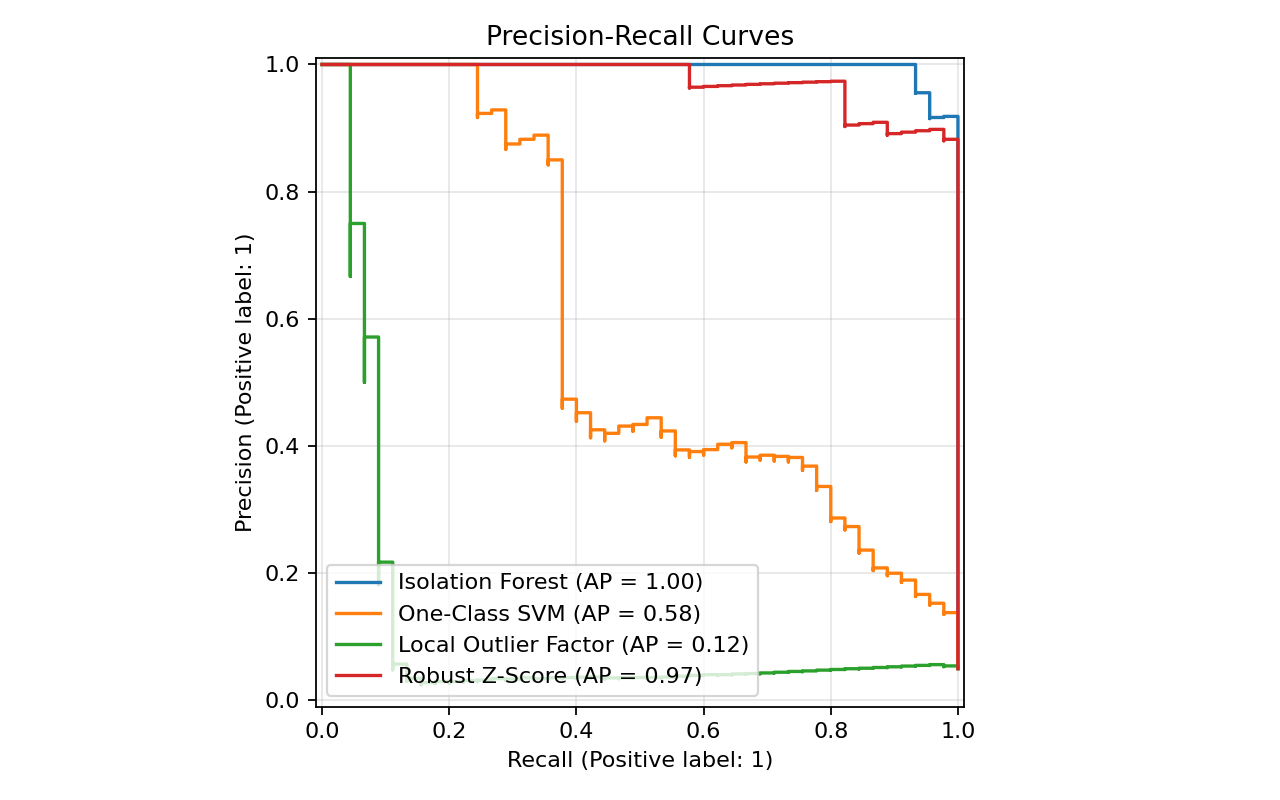
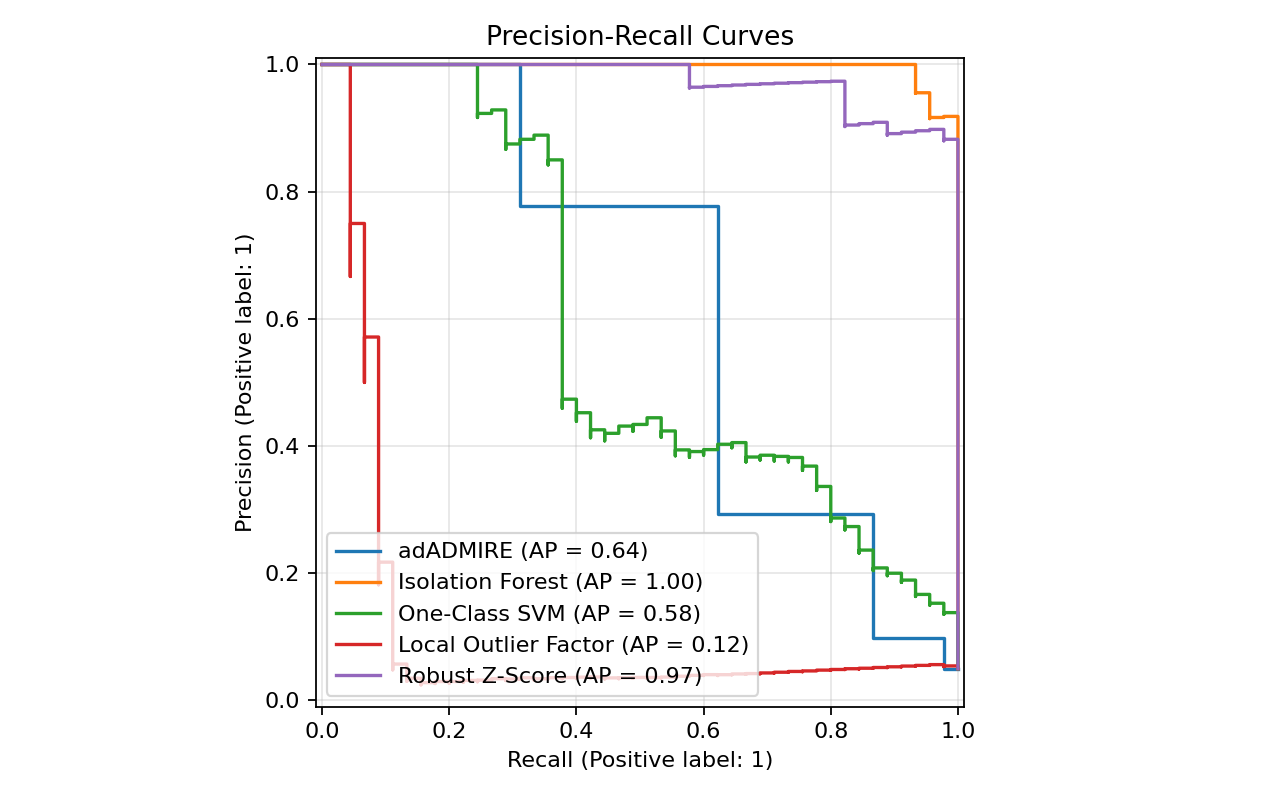
Add public adADMIRE benchmark method
Integrate the public adadmire package into the synthetic benchmark and refresh example metrics and plots.

diff --git a/src/models.py b/src/models.py
@@ -1,7 +1,11 @@
 from __future__ import annotations
 
+import contextlib
+import io
+
 import numpy as np
 import pandas as pd
+from adadmire import admire, penalty
 from sklearn.compose import ColumnTransformer
 from sklearn.ensemble import IsolationForest
 from sklearn.neighbors import LocalOutlierFactor
@@ -30,6 +34,37 @@ def robust_zscore_scores(data: pd.DataFrame) -> np.ndarray:
     return zscores.max(axis=1)
 
 
+def adadmire_scores(data: pd.DataFrame) -> np.ndarray:
+    """Run public adADMIRE and convert flagged cell positions into row scores."""
+    numeric = StandardScaler().fit_transform(data[NUMERIC_FEATURES])
+
+    encoder = OneHotEncoder(sparse_output=False, handle_unknown="ignore")
+    discrete = encoder.fit_transform(data[CATEGORICAL_FEATURES])
+    levels = np.array([len(categories) for categories in encoder.categories_])
+
+    lambda_sequence = penalty(numeric, discrete, min=-2.25, max=-1.5, step=0.25)
+    with contextlib.redirect_stdout(io.StringIO()), contextlib.redirect_stderr(io.StringIO()):
+        _, n_cont, position_cont, _, n_disc, position_disc = admire(
+            numeric,
+            discrete,
+            levels,
+            lambda_sequence,
+            oIterations=1000,
+        )
+
+    scores = np.zeros(data.shape[0], dtype=float)
+    if n_cont:
+        continuous_positions = np.asarray(position_cont)
+        continuous_rows = continuous_positions[:, 0].astype(int)
+        np.add.at(scores, continuous_rows, 1.0)
+    if n_disc:
+        discrete_positions = np.asarray(position_disc)
+        discrete_rows = discrete_positions[0, :].astype(int)
+        np.add.at(scores, discrete_rows, 1.0)
+
+    return scores
+
+
 def run_anomaly_methods(
     data: pd.DataFrame,
     contamination: float,
@@ -37,6 +72,8 @@ def run_anomaly_methods(
 ) -> dict[str, np.ndarray]:
     """Fit anomaly detectors and return scores where higher means more anomalous."""
     methods: dict[str, np.ndarray] = {}
+
+    methods["adADMIRE"] = adadmire_scores(data)
 
     isolation_forest = Pipeline(
         steps=[

diff --git a/README.md b/README.md
@@ -6,7 +6,7 @@ This is a small, public-safe anomaly-detection demo for mixed tabular data. It m
 
 - Synthetic mixed-tabular data generation with numeric and categorical features.
 - Injected anomalies with known labels for fair evaluation.
-- Comparison of Isolation Forest, One-Class SVM, Local Outlier Factor, and a robust z-score baseline.
+- Comparison of public `adADMIRE`, Isolation Forest, One-Class SVM, Local Outlier Factor, and a robust z-score baseline.
 - Imbalanced evaluation with PR-AUC, ROC-AUC, and Precision@k.
 - Reproducible outputs saved as JSON and plots.
 
@@ -41,6 +41,8 @@ pip install -r requirements.txt
 python src/main.py
 ```
 
+The default run includes `adADMIRE`, which performs leave-one-out model fitting and may take around one to two minutes on a laptop.
+
 Optional arguments:
 
 ```bash
@@ -59,4 +61,4 @@ The script prints a compact metric table and writes:
 
 ## Public-Safe Scope
 
-The feature names are clinical-style, but all values are generated from simple random distributions. This repository intentionally does not include ADMIRE source material, private lab files, real clinical records, course datasets, notebooks, or generated research artifacts.
+The feature names are clinical-style, but all values are generated from simple random distributions. This repository uses the public MIT-licensed `adadmire` package from Spang Lab and intentionally does not include private lab files, real clinical records, course datasets, notebooks, or generated research artifacts.
